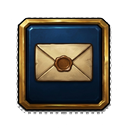
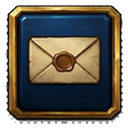
Zalozky zasilek, cervene menu, srovnane ikonky
ZASILKY: zalozky I a II nefungovaly
Ram je maluje, ale klikaci plocha nad nimi chybela uplne, takze
nebylo na co klikat. Doplneny i se strankovanim po 25 kusech.
Overeno na 32 zasilkach: na I je 25, na II zbylych 7.

IKONKY V HLAVICCE nebyly stejne velke
Kresba v kazde zabirala jinou cast platna - 75 az 100 %. Orizl jsem
je na kresbu a slozil znovu tak, aby u vsech vyplnovala 94 % ctverce.
Prvni pokus nepomohl, protoze thumbnail umi jen zmensovat a mensi
ikony tak zustaly male; ted se skaluje obema smery.

MENU MESTA je cervene stale, ne az po kliknuti. Aktivni polozka je
tmavsi se zlatym lemem, aby bylo poznat, kde prave jsi.

Odkaz na profil pod postavou odebran.

diff --git a/frontend/js/game.js b/frontend/js/game.js
@@ -920,12 +920,7 @@ function profileView() {
     </div>
 
   </div>
-
-  <div class="profile-link">
-    <div class="pl-title">Odkaz na tvůj profil</div>
-    <input class="pl-input" readonly onclick="this.select()"
-           value="${location.origin}${location.pathname}?hrdina=${encodeURIComponent(c.name)}">
-  </div>`;
+`;
 }
 
 // ========== DRAG & DROP ==========
@@ -2824,10 +2819,14 @@ const ZASILKA_FILTRY = [
 ];
 
 let zasilkaFiltr = 'vse';
+let zasilkaStrana = 0;
+const ZASILKA_NA_STRANU = SHOP_COLS * SHOP_ROWS;   // kolik se jich vejde na ram
+
+function setZasilkaStrana(s) { zasilkaStrana = s; openView('loot'); }
 
 const sedneFiltr = it => (ZASILKA_FILTRY.find(f => f.key === zasilkaFiltr) || ZASILKA_FILTRY[0]).sedne(it);
 
-function setZasilkaFiltr(k) { zasilkaFiltr = k; openView('loot'); }
+function setZasilkaFiltr(k) { zasilkaFiltr = k; zasilkaStrana = 0; openView('loot'); }
 
 // Proda jen to, co je zrovna vyfiltrovane - jinak by filtr uspal
 // pozornost a smazal i to, co hrac nevidi.
@@ -2854,7 +2853,15 @@ function loot() {
     `<button class="zf-btn ${zasilkaFiltr === fl.key ? 'active' : ''}"
              onclick="setZasilkaFiltr('${fl.key}')">${fl.nazev}</button>`).join('');
 
-  const policka = vybrane.map((z, i) => {
+  const odsud = zasilkaStrana * ZASILKA_NA_STRANU;
+  const naStrance = vybrane.slice(odsud, odsud + ZASILKA_NA_STRANU);
+
+  // zalozky sedi na namalovanych v ramu
+  const zalozky = [0, 1].map(s =>
+    `<div class="pg-tab ${s === zasilkaStrana ? 'active' : ''}" onclick="setZasilkaStrana(${s})">${['I','II'][s]}</div>`
+  ).join('');
+
+  const policka = naStrance.map((z, i) => {
     const q = qualityOf(z.kus);
     const [w, h] = itemSize(z.kus);
     const idx = lootLog.indexOf(z);
@@ -2887,6 +2894,7 @@ function loot() {
         <div class="zas-sloupec">
           <div class="zas-nadpis">Zásilky</div>
           <div class="frame frame-shop">
+            <div class="frame-tabs">${zalozky}</div>
             <div class="goods-grid">${policka}</div>
           </div>
         </div>

diff --git a/frontend/css/game.css b/frontend/css/game.css
@@ -3480,3 +3480,25 @@ select.adm-input{width:190px}
 }
 .zas-body .frame{max-width:none}
 @media (max-width:900px){ .zas-body{grid-template-columns:1fr} }
+
+/* Polozky v nabidce mesta byly bezove a cervenaly az po kliknuti.
+   Ted jsou cervene stale, jako tlacitka nad nimi; aktivni je tmavsi
+   a zlata, aby bylo poznat, kde prave jsi. */
+.sub-item{
+  background:
+    linear-gradient(180deg, rgba(255,255,255,.14) 0%, transparent 44%),
+    linear-gradient(180deg,#a8272a 0%,#8a1c1f 52%,#611013 100%);
+  border:1px solid #4a0b0b;
+  border-top-color:#d06a6a;
+  color:#f0dcae;
+  text-shadow:0 1px 2px rgba(0,0,0,.65);
+  box-shadow:inset 0 1px 0 rgba(255,255,255,.2), 0 2px 4px rgba(0,0,0,.35);
+}
+.sub-item:hover{filter:brightness(1.16)}
+.sub-item.active{
+  background:linear-gradient(180deg,#6d1113 0%,#4a0b0b 100%);
+  color:#f8e6ae;
+  border-color:#d8b13a;
+  box-shadow:inset 0 2px 6px rgba(0,0,0,.55), 0 0 8px rgba(216,177,58,.35);
+  filter:none;
+}

diff --git a/frontend/index.html b/frontend/index.html
@@ -6,7 +6,7 @@
   <link rel="icon" type="image/png" href="img/ui/favicon.png">
   <title>Olympus - Vstup do Arény</title>
   <link href="https://fonts.googleapis.com/css2?family=Cinzel:wght@400;700;900&family=Cinzel+Decorative:wght@400;700&display=swap" rel="stylesheet">
-  <link rel="stylesheet" href="css/style.css?v=tjiiji">
+  <link rel="stylesheet" href="css/style.css?v=tjiius">
 </head>
 <body>
 
@@ -152,10 +152,10 @@
 
   </div>
 
-  <script src="js/api.js?v=tjiiji"></script>
-  <script src="js/avatars.js?v=tjiiji"></script>
-  <script src="js/auth.js?v=tjiiji"></script>
-  <script src="js/character.js?v=tjiiji"></script>
+  <script src="js/api.js?v=tjiius"></script>
+  <script src="js/avatars.js?v=tjiius"></script>
+  <script src="js/auth.js?v=tjiius"></script>
+  <script src="js/character.js?v=tjiius"></script>
   <script>
     // Particles background
     const canvas = document.getElementById('particles');

diff --git a/frontend/game.html b/frontend/game.html
@@ -5,7 +5,7 @@
   <meta name="viewport" content="width=device-width, initial-scale=1.0">
   <link rel="icon" type="image/png" href="img/ui/favicon.png">
   <title>Olympus</title>
-  <link rel="stylesheet" href="css/game.css?v=tjiiji">
+  <link rel="stylesheet" href="css/game.css?v=tjiius">
 </head>
 <body>
 
@@ -156,9 +156,9 @@
   </div>
 </div>
 
-<script src="js/api.js?v=tjiiji"></script>
-<script src="js/avatars.js?v=tjiiji"></script>
-<script src="js/game.js?v=tjiiji"></script>
+<script src="js/api.js?v=tjiius"></script>
+<script src="js/avatars.js?v=tjiius"></script>
+<script src="js/game.js?v=tjiius"></script>
 
 <script>
   // Najeti mysi jen prepne, co je v nabidce videt.
